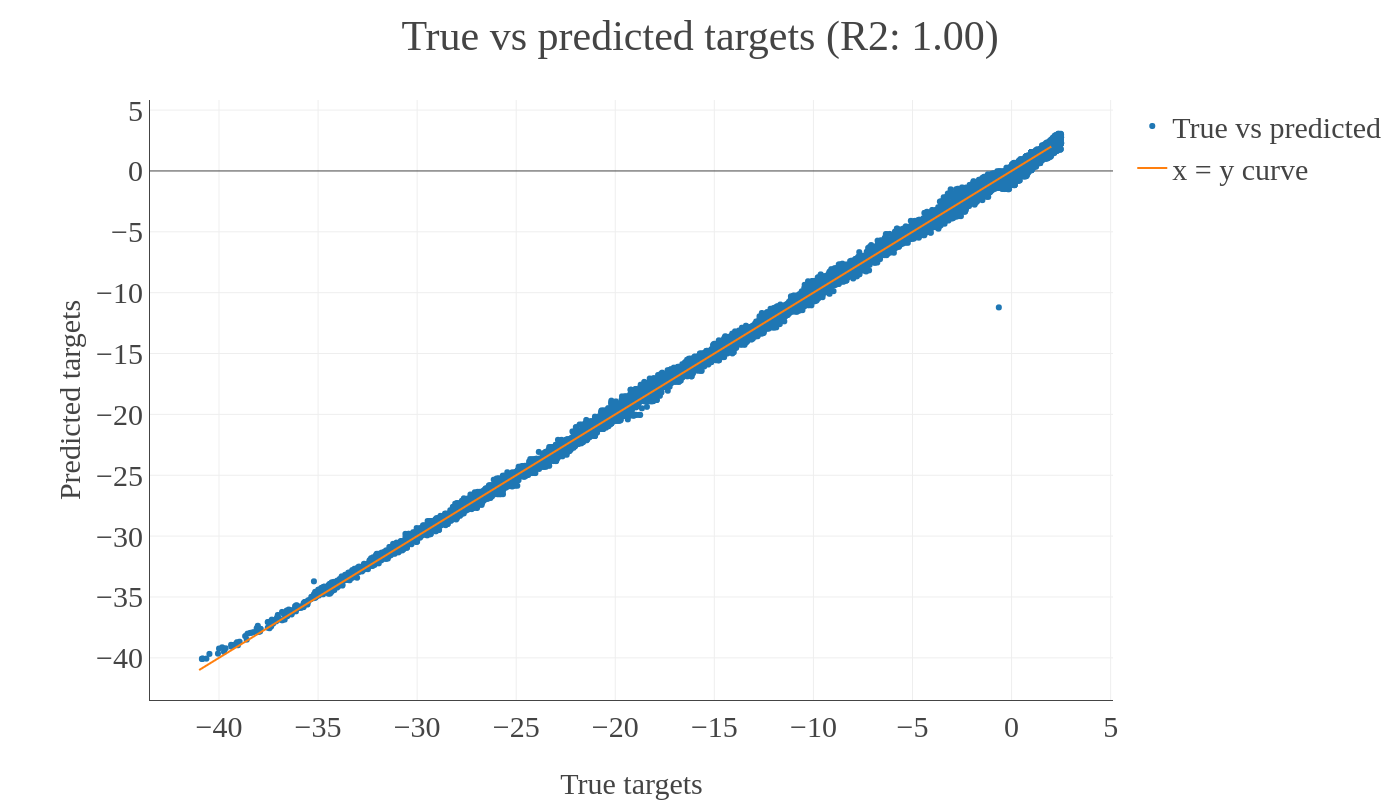
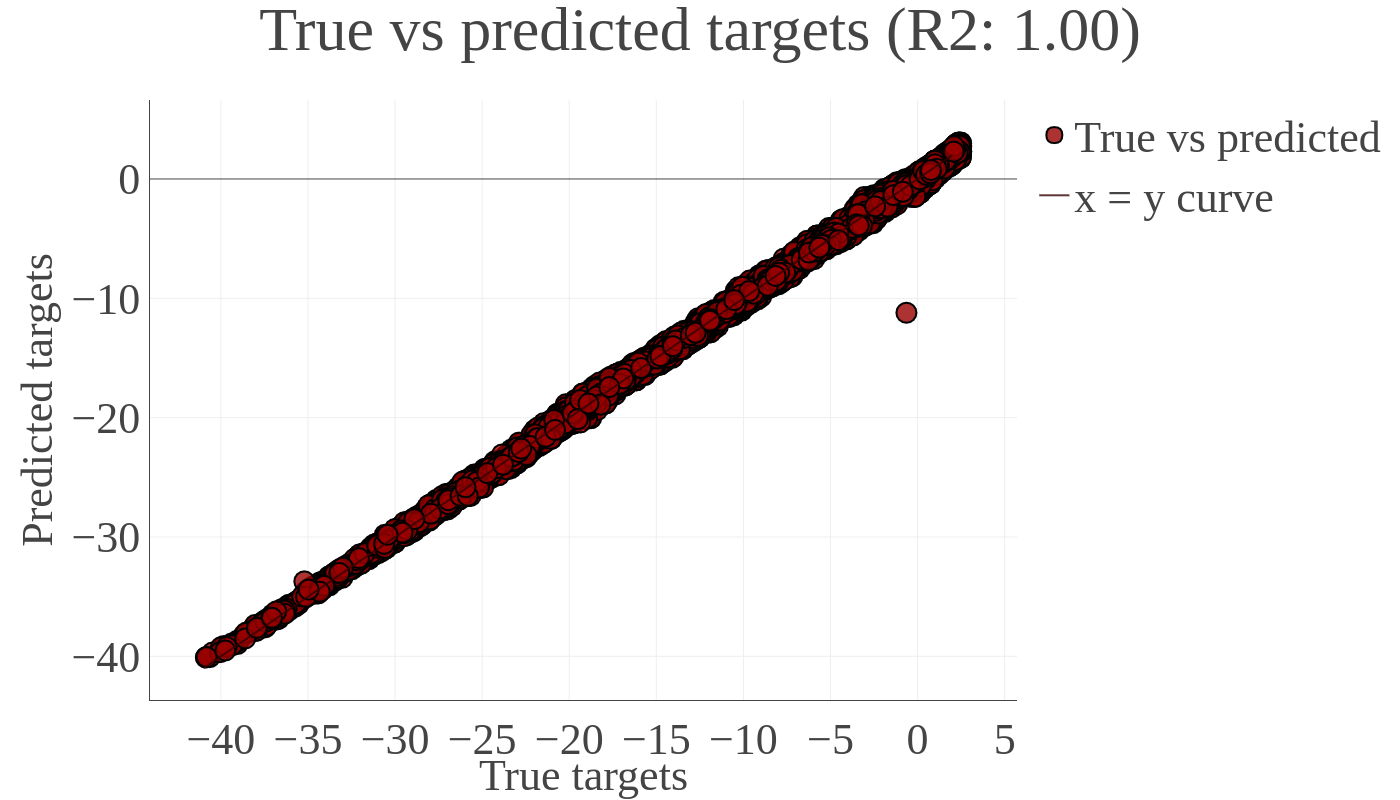
Update scripts

diff --git a/regression_analysis.py b/regression_analysis.py
@@ -16,7 +16,7 @@ import plotly.io as pio
 warnings.filterwarnings('ignore')
 
 start_time = time.time()
-folder_name = "tuning/"
+folder_name = "european_days/"
 clf_names_dir = os.listdir(folder_name)
 
 
@@ -62,7 +62,6 @@ for clf in clf_names_dir:
 
     print("-------------x------------------x---------------x---------------")
     print(" ")
-    
 
 fit_times_list = list()
 r2_score_list = list()
@@ -73,12 +72,9 @@ ctr = 0
 ao = False
 
 NUM_COLORS = 16
-cm = plt.get_cmap('tab20c')
+cm = plt.get_cmap('RdYlBu')
 colors = [cm(1.*i/NUM_COLORS) for i in range(NUM_COLORS)]
-
-rcParams["font.size"] = 30
-rcParams["font.family"] = "Times New Roman"
-fontsz = 30
+fontsz = 26
 
 for item in r2_dict.items():
     names_clf.append(item[0])
@@ -93,6 +89,10 @@ for item in r2_dict.items():
         marker = dict(
             size = 15,
             color = 'rgba' + str(colors[ctr]),
+            line = dict(
+                width = 2,
+                color = 'rgb(0, 0, 0)'
+            )
         )
     )
     trace_time_acc_list.append(trace_time_acc)
@@ -128,16 +128,15 @@ layout_time_acc = dict(
         t=100,
         b=100
     ),
-    #paper_bgcolor='rgb(248, 248, 255)',
-    #plot_bgcolor='rgb(248, 248, 255)',
 )
 
 fig_tp = go.Figure(data=trace_time_acc_list, layout=layout_time_acc)
-plotly.offline.plot(fig_tp, filename="fit_time_r2.png", auto_open=ao)
+plotly.offline.plot(fig_tp, filename="fit_time_r2", auto_open=ao)
 pio.write_image(fig_tp, 'plots/fit_time_r2.png', width=1200, height=800)
 
 print("-------------x------------------x---------------")
 
+fontsz = 32
 # plot bar chart for regressors
 r2_dict = sorted(r2_dict.items(), key=lambda kv: kv[1])
 
@@ -154,7 +153,7 @@ trace0 = go.Bar(
     marker=dict(
         color='rgba(50, 171, 96, 0.6)',
         line=dict(
-            color='rgba(50, 171, 96, 0.6)',
+            color='rgba(0, 0, 0)',
             width=1),
         ),
     name='R2 regression scores vs regressors',
@@ -190,12 +189,10 @@ layout = dict(
         t=70,
         b=70,
     ),
-    #paper_bgcolor='rgb(248, 248, 255)',
-    #plot_bgcolor='rgb(248, 248, 255)',
 )
 
 fig_tp = go.Figure(data=[trace0], layout=layout)
-plotly.offline.plot(fig_tp, filename="r2_scores.png", auto_open=ao)
+#plotly.offline.plot(fig_tp, filename="r2_scores.png", auto_open=ao)
 pio.write_image(fig_tp, "plots/r2_scores.png", width=1300, height=800)
 print("-------------x------------------x---------------")
 
@@ -206,11 +203,17 @@ data_folder_name = "data_used/"
 folder_dir = os.listdir(data_folder_name)
 dataset_length = list()
 
+file_names = ""
 for ds in folder_dir:
     if ds + ".tabular" in common_fileset:
         ds_path = data_folder_name + ds
         df = pd.read_csv(ds_path, sep="\t")
         dataset_length.append(len(df))
+        file_names += ds + ".tabular" + "\n"
+
+file_object  = open("file_names.txt", "w")
+file_object.write(file_names)
+file_object.close()
 
 trace1 = go.Bar(
     x=np.arange(len(dataset_length)),
@@ -218,7 +221,7 @@ trace1 = go.Bar(
     marker=dict(
         color='rgba(50, 171, 96, 0.6)',
         line=dict(
-            color='rgba(50, 171, 96, 0.6)', width=1),
+            color='rgba(0, 0, 0)', width=1),
         ),
     name='Size of datasets',
 )
@@ -253,12 +256,10 @@ layout1 = dict(
         t=70,
         b=70,
     ),
-    #paper_bgcolor='rgb(248, 248, 255)',
-    #plot_bgcolor='rgb(248, 248, 255)',
 )
 
 fig_tp = go.Figure(data=[trace1], layout=layout1)
-plotly.offline.plot(fig_tp, filename="size_datasets.png", auto_open=ao)
+#plotly.offline.plot(fig_tp, filename="size_datasets.png", auto_open=ao)
 pio.write_image(fig_tp, "plots/size_datasets.png", width=1200, height=800)
 print("-------------x------------------x---------------")
 

diff --git a/compare_tuning.py b/compare_tuning.py
@@ -21,16 +21,9 @@ folder_name_no_tuning = "no_tuning/"
 clf_names_dir_tuning = os.listdir(folder_name_tuning)
 clf_names_dir_no_tuning = os.listdir(folder_name_no_tuning)
 
-
-def check_file(f_name):
-    for clf in clf_names_dir_tuning:
-        data_path = folder_name_tuning + clf
-        files = [f for f in os.listdir(data_path)]
-        if f_name not in files:
-            return False
-            break
-    return True
-
+file_obj = open("file_names.txt", "r")
+dataset_names = file_obj.read()
+dataset_names = dataset_names.split("\n")
 
 clf_names_tuning = list()
 clf_mean_r2_tuning = list()
@@ -46,8 +39,7 @@ for clf in clf_names_dir_tuning:
     fit_time = list()
     common_fileset = list()
     for f_name in files:
-        if_file_present = check_file(f_name)
-        if if_file_present is True:
+        if f_name in dataset_names: 
             common_fileset.append(f_name)
             f_path = data_path + "/" + f_name
             df = pd.read_csv(f_path, sep="\t")
@@ -82,8 +74,7 @@ for clf in clf_names_dir_no_tuning:
     r2_scores = list()
     fit_time = list()
     for f_name in files:
-        if_file_present = check_file(f_name)
-        if if_file_present is True:
+        if f_name in dataset_names:
             f_path = data_path + "/" + f_name
             df = pd.read_csv(f_path, sep="\t")
             rank_test_score = df[df["rank_test_score"] == 1]
@@ -132,58 +123,6 @@ for clf in r2_dict_no_tuning:
 
 fontsz = 30
 ao = True
-  
-'''x_eq_y = list(range( int(min(hyp_tuning_res) - 2), int(max(no_hyp_tuning_res) + 2) ))
-
-trace_x_eq_y = go.Scatter(
-    x = x_eq_y,
-    y = x_eq_y,
-    mode = 'lines',
-    name = 'x = y curve',
-    marker = dict(
-        color = 'rgba' + str(colors[0]),
-    )
-)
-
-trace_tng_ntng_list.append(trace_x_eq_y)
-
-layout_tng_ntng = dict(
-    title = "R2 scores of regressors for tuning and no tuning of hyperparameters",
-    font = dict(family='Times new roman', size=fontsz),
-    yaxis = dict(
-        showgrid=True,
-        showline=True,
-        showticklabels=True,
-        title='Performance using tuned hyperparameters',
-        titlefont=dict(
-            family='Times new roman',
-            size=fontsz
-        )
-    ),
-    xaxis=dict(
-        zeroline=False,
-        showline=True,
-        showticklabels=True,
-        showgrid=True,
-        title='Performance using no hyperparameters',
-        titlefont=dict(
-            family='Times new roman',
-            size=fontsz
-        )
-    ),
-    margin=dict(
-        l=100,
-        r=100,
-        t=100,
-        b=100
-    ),
-    paper_bgcolor='rgb(248, 248, 255)',
-    plot_bgcolor='rgb(248, 248, 255)',
-)'''
-
-#fig_actual_pred = go.Figure(data=trace_tng_ntng_list, layout=layout_tng_ntng)
-#plotly.offline.plot(fig_actual_pred, filename="hyper_performance.html", auto_open=ao)
-#pio.write_image(fig_actual_pred, 'plots/hyper_performance.png', width=1200, height=800)'''
 
 # ----------------------------------
 
@@ -240,8 +179,6 @@ layout = dict(
         t=70,
         b=70,
     ),
-    #paper_bgcolor='rgb(248, 248, 255)',
-    #plot_bgcolor='rgb(248, 248, 255)',
 )
 
 fig_tp = go.Figure(data=[trace_tuning, trace_notuning], layout=layout)

diff --git a/r2_plots.py b/r2_plots.py
@@ -40,7 +40,7 @@ parameters = [{ \
     'regression__random_state': [3111696] \
 }]
 
-fontsz = 30
+fontsz = 44
 ao = False
 
 print('Training started...')
@@ -77,7 +77,15 @@ for d_set in datasets:
         x = y_test.tolist(),
         y = prediction.tolist(),
         mode = 'markers',
-        name = 'True vs predicted'
+        name = 'True vs predicted',
+        marker = dict(
+            size = 20,
+            color = 'rgba(152, 0, 0, .8)',
+            line = dict(
+                width = 2,
+                color = 'rgb(0, 0, 0)'
+            )
+        )
     )
   
     x_eq_y = list(range( int(min(y_test) - 1), int(max(y_test) + 1) ))
@@ -86,7 +94,11 @@ for d_set in datasets:
         x = x_eq_y,
         y = x_eq_y,
         mode = 'lines',
-        name = 'x = y curve'
+        name = 'x = y curve',
+        marker = dict(
+            size = 10,
+            color = 'rgba(52, 0, 0, .8)',
+        )
     )
 
     layout_actual_pred = dict(
@@ -119,13 +131,11 @@ for d_set in datasets:
             t=100,
             b=100
         ),
-        #paper_bgcolor='rgb(248, 248, 255)',
-        #plot_bgcolor='rgb(248, 248, 255)',
     )
     fn = "pred_actual_" +  d_set + ".png"
     fig_actual_pred = go.Figure(data=[trace_actual_pred, trace_x_eq_y], layout=layout_actual_pred)
-    plotly.offline.plot(fig_actual_pred, filename=fn, auto_open=ao)
-    pio.write_image(fig_actual_pred, 'plots/' + fn, width=1400, height=800)
+    #plotly.offline.plot(fig_actual_pred, filename=fn, auto_open=ao)
+    pio.write_image(fig_actual_pred, 'plots_r2/' + fn, width=1400, height=800)
     
     print("Finished dataset: %s" % d_set)
     print("------------------------------------------------------------")
